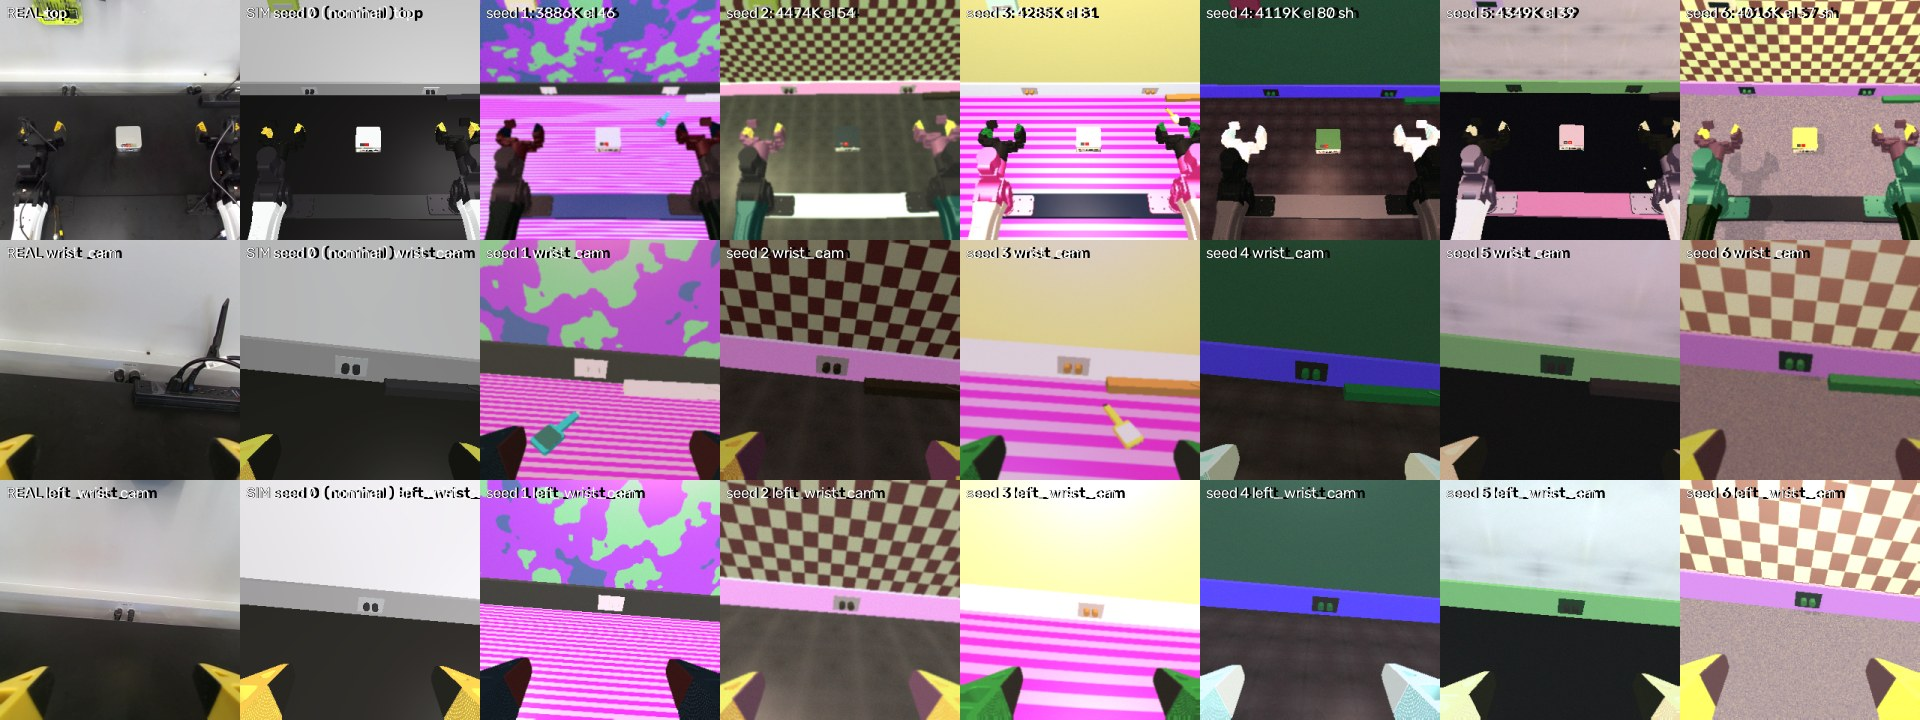
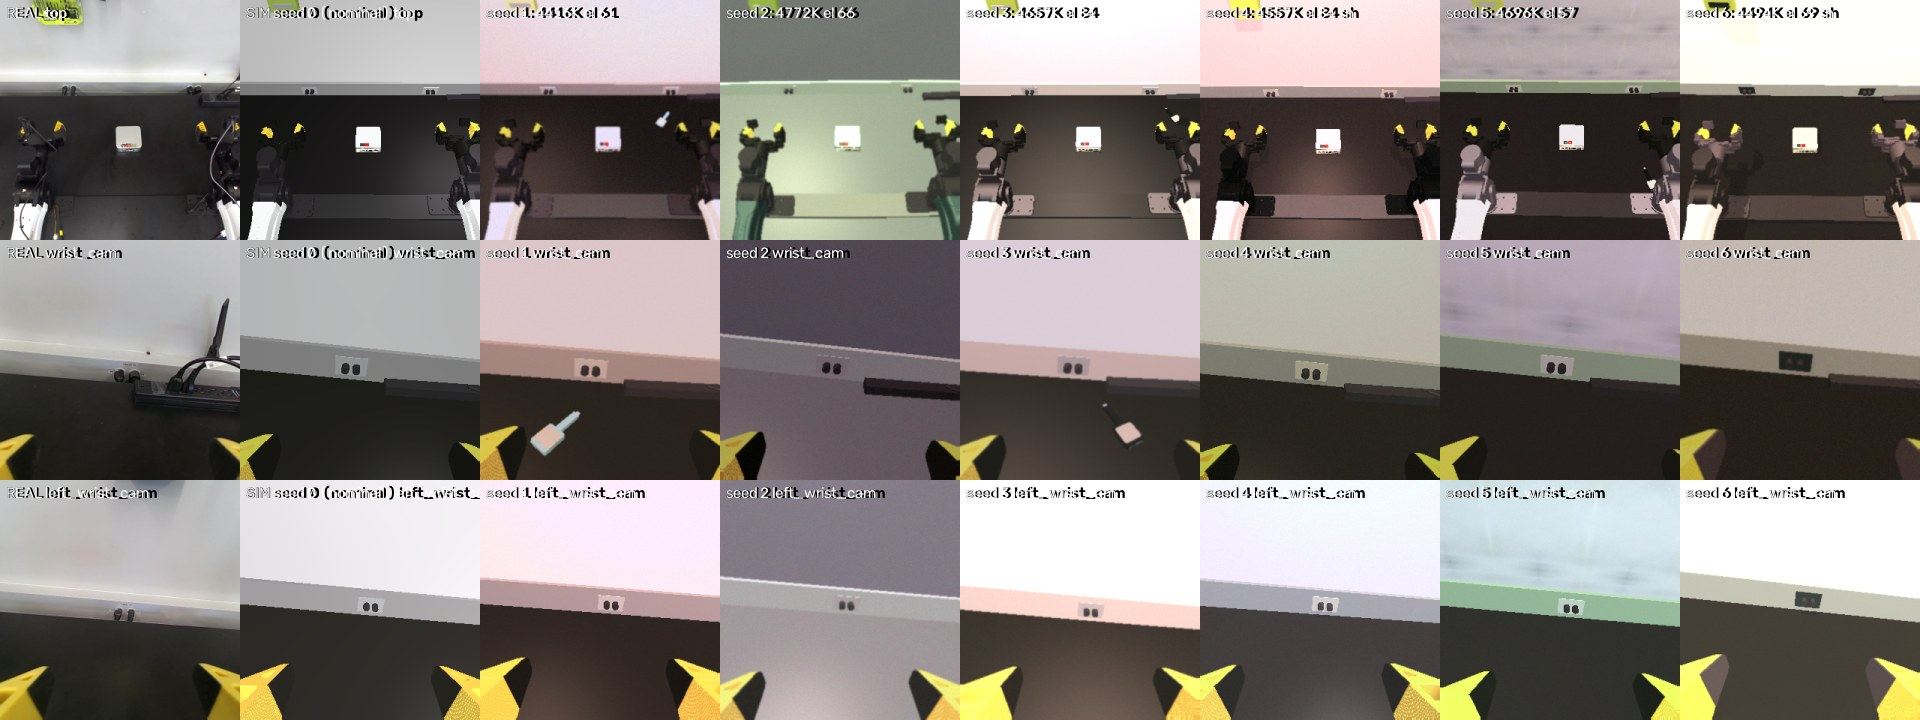
Visual DR: mild defaults (look stays like the real rig); plan: RGB only, no depth
Claude-Session: https://claude.ai/code/session_01DFx7XNfoUoHzcoAE8Q54Xw

diff --git a/blind_insertion/envs/visual_dr.py b/blind_insertion/envs/visual_dr.py
@@ -84,29 +84,31 @@ class VisualDRCfg:
     nominal_prob: float = .1
     nominal_clean: bool = False
     # --- appearance, per group (GROUPS) ---
-    random_color_prob: float = .75          # new random colour; else nominal colour jittered
-    tips_random_prob: float = .25           # yellow fingertips: rarer (they stay mostly yellow on the rig)
+    # Defaults are mild (user, 2026-10-31): the scene should still look like the real rig. The
+    # camera-image and camera-pose ranges below stay at real scale.
+    random_color_prob: float = .1           # new random colour; else nominal colour jittered
+    tips_random_prob: float = 0.            # the rig's fingertips stay yellow
     hue_range: tuple = (0., 1.)
-    saturation_range: tuple = (0., .8)
+    saturation_range: tuple = (0., .35)     # random colours stay muted
     value_range: tuple = (.03, .95)         # HSV value of the random colour (dark to light)
-    nominal_jitter: float = .2              # jittered nominal: brightness x U(1 -/+ j), per channel x U(1 -/+ j/4)
-    specular_range: tuple = (0., 1.)        # flat (0) ... glossy (1), MuJoCo material specular
-    shininess_range: tuple = (0., 1.)       # x 128 = Phong exponent
+    nominal_jitter: float = .15             # jittered nominal: brightness x U(1 -/+ j), per channel x U(1 -/+ j/4)
+    specular_range: tuple = (0., .5)        # flat (0) ... glossy (1), MuJoCo material specular
+    shininess_range: tuple = (0., .5)       # x 128 = Phong exponent
     emission_range: tuple = (0., .05)
     # --- patterns on the table and wall decals ---
-    texture_prob: float = .5
-    real_texture_prob: float = .4           # of the textured episodes: a real-photo patch (assets/visual_dr)
+    texture_prob: float = .15
+    real_texture_prob: float = 1.           # of the textured episodes: a real-photo patch (assets/visual_dr); < 1 adds procedural patterns
     texrepeat_range: tuple = (2., 12.)      # pattern repeats across the surface
     # --- lighting: key light (point light) placed on a sphere around the workspace ---
-    light_elevation_deg: tuple = (35., 90.)
+    light_elevation_deg: tuple = (55., 90.)
     light_azimuth_deg: tuple = (0., 360.)
     light_distance_m: tuple = (.9, 1.6)
-    light_intensity: tuple = (.3, 1.)       # key diffuse = I / 0.65 x nominal key diffuse
-    light_kelvin: tuple = (3200., 6500.)    # colour temperature of key, fill and ambient
+    light_intensity: tuple = (.5, .85)      # key diffuse = I / 0.65 x nominal key diffuse
+    light_kelvin: tuple = (4000., 6000.)    # colour temperature of key, fill and ambient
     fill_elevation_deg: tuple = (20., 90.)
-    shadow_prob: float = .5                 # key light casts shadows
-    fill_scale: tuple = (.2, 1.2)           # fill diffuse x nominal
-    ambient_scale: tuple = (.5, 1.5)        # per-light ambient x nominal
+    shadow_prob: float = .3                 # key light casts shadows
+    fill_scale: tuple = (.6, 1.2)           # fill diffuse x nominal
+    ambient_scale: tuple = (.8, 1.2)        # per-light ambient x nominal
     # --- camera image, on the rendered frame (per frame if image_per_frame, else per episode) ---
     gain: tuple = (.93, 1.07)               # per channel
     brightness: float = 12.                 # +/- offset, 0-255 units

diff --git a/docs/rl/POLICY_PLAN.md b/docs/rl/POLICY_PLAN.md
@@ -36,6 +36,11 @@ Every training episode and every demo is drawn from this. Seed 0 reproduces the 
 | Camera timing | frame age and cadence | measured cadence model |
 
 Rule from the deck: sim sensors are at least as bad as the real ones.
+Appearance and lighting stay mild (user, 2026-10-31): the scene must still look like the real rig
+(`VisualDRCfg` defaults: nominal colours ±15 %, a muted random colour in 10 % of groups, yellow
+fingertips kept, real-photo patterns on 15 % of episodes, light 55–90° up, 0.5–0.85, 4000–6000 K,
+shadows 30 %). Camera-image noise and camera-pose error stay at real scale.
+**RGB only: no depth cameras or depth data anywhere in the policy pipeline for now.**
 
 Visual DR is off by default: `BimanualCfg(render_rgb=True, visual_dr=True)` (or a dict of
 `VisualDRCfg` ranges). 10 % of episodes keep the nominal look (`nominal_prob`). Seed 0 = real look:
